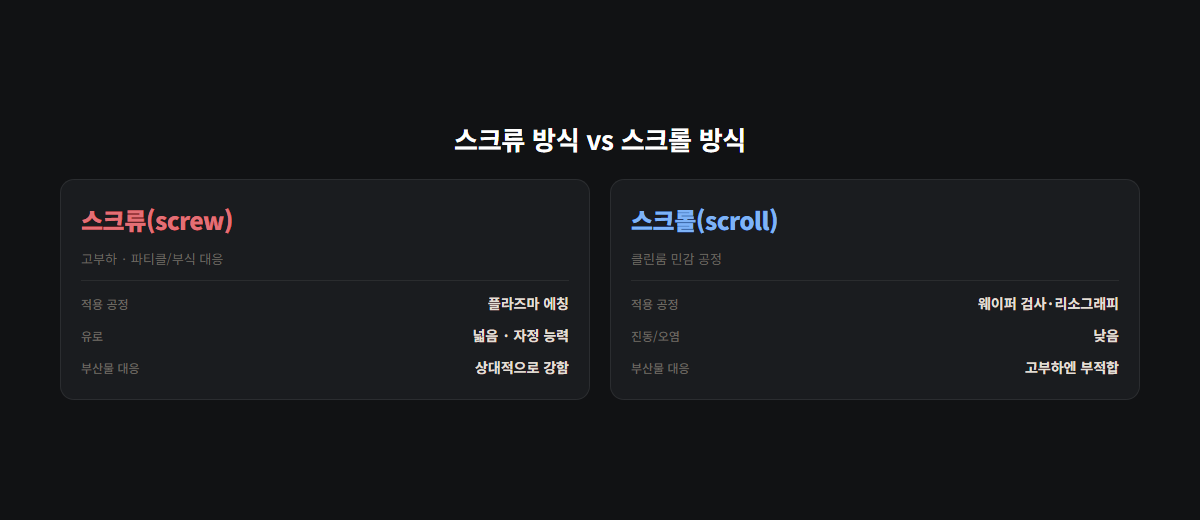
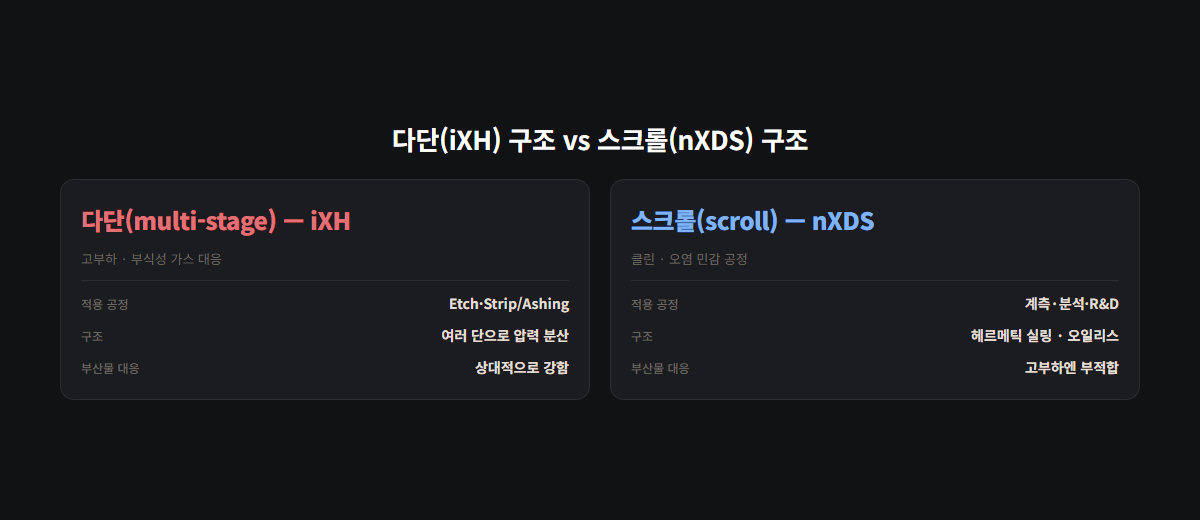
fix: 네이버 복사 시 썸네일이 사진 번호에 포함되던 버그 수정 + 반도체 블로그 사실오류 정정
- admin/blog 네이버 복사 버튼이 썸네일을 "사진 1번"으로 세면서 실제 파일명(사진1.png~)과
  한 칸씩 어긋나던 문제 수정. 썸네일은 "🖼 썸네일"로 별도 표시.
- 반도체 드라이펌프 블로그: "스크류 vs 스크롤" 비교를 "다단(iXH) vs 스크롤(nXDS)"로 정정
  (Edwards 공식 데이터시트 확인). 오일펌프 사진이 다단 구조 설명과 안 맞아 실제 iXH
  현장사진으로 교체.

diff --git a/app/admin/blog/page.tsx b/app/admin/blog/page.tsx
@@ -211,6 +211,9 @@ export default function AdminBlogPage() {
       .replace(/^---[\s\S]*?---\s*/m, "")
       // HTML 주석 제거
       .replace(/<!--[\s\S]*?-->/g, "")
+      // 첫 번째 이미지(썸네일)는 "사진" 번호에서 제외 — 본문 이미지(사진1.png, 사진2.png...)와 번호를 맞추기 위함
+      .replace(/\[IMAGE:\s*([^\]]*)\]/, (_, desc) => `\n\n[🖼 썸네일 — ${desc.trim() || "대표 이미지"}]\n\n`)
+      .replace(/!\[([^\]]*)\]\([^)]*\)/, (_, alt) => `\n\n[🖼 썸네일 — ${alt && alt.trim() ? alt.trim() : "대표 이미지"}]\n\n`)
       // [IMAGE: 설명] 마커 → 📷 사진 안내
       .replace(/\[IMAGE:\s*([^\]]*)\]/g, (_, desc) => {
         imgCount++;

diff --git a/블로그/output/기술블로그/2026-07/0710-반도체-드라이펌프/images/gen_images.py b/블로그/output/기술블로그/2026-07/0710-반도체-드라이펌프/images/gen_images.py
@@ -119,7 +119,7 @@ img2_html = f"""<!DOCTYPE html>
   </div>
 </body></html>"""
 
-# ── 사진3: 스크류 펌프와 스크롤 펌프 구조 비교 ─────────────
+# ── 사진3: 다단(iXH) 구조와 스크롤(nXDS) 구조 비교 (2026-07-13 정정: 스크류→다단) ─────────────
 img3_html = f"""<!DOCTYPE html>
 <html><head><meta charset="utf-8"><style>
   * {{ margin:0; padding:0; box-sizing:border-box; }}
@@ -142,22 +142,22 @@ img3_html = f"""<!DOCTYPE html>
   .spec-value {{ font-size:14px; font-weight:700; color:#E3DFD6; }}
 </style></head>
 <body>
-  <h2>스크류 방식 vs 스크롤 방식</h2>
+  <h2>다단(iXH) 구조 vs 스크롤(nXDS) 구조</h2>
   <div class="cards">
     <div class="card">
-      <div class="model-name" style="color:#E46F75;">스크류(screw)</div>
-      <div class="model-sub">고부하 · 파티클/부식 대응</div>
+      <div class="model-name" style="color:#E46F75;">다단(multi-stage) — iXH</div>
+      <div class="model-sub">고부하 · 부식성 가스 대응</div>
       <div class="divider"></div>
-      <div class="spec-row"><span class="spec-label">적용 공정</span><span class="spec-value">플라즈마 에칭</span></div>
-      <div class="spec-row"><span class="spec-label">유로</span><span class="spec-value">넓음 · 자정 능력</span></div>
+      <div class="spec-row"><span class="spec-label">적용 공정</span><span class="spec-value">Etch·Strip/Ashing</span></div>
+      <div class="spec-row"><span class="spec-label">구조</span><span class="spec-value">여러 단으로 압력 분산</span></div>
       <div class="spec-row"><span class="spec-label">부산물 대응</span><span class="spec-value">상대적으로 강함</span></div>
     </div>
     <div class="card">
-      <div class="model-name" style="color:#7EB3F7;">스크롤(scroll)</div>
-      <div class="model-sub">클린룸 민감 공정</div>
+      <div class="model-name" style="color:#7EB3F7;">스크롤(scroll) — nXDS</div>
+      <div class="model-sub">클린 · 오염 민감 공정</div>
       <div class="divider"></div>
-      <div class="spec-row"><span class="spec-label">적용 공정</span><span class="spec-value">웨이퍼 검사·리소그래피</span></div>
-      <div class="spec-row"><span class="spec-label">진동/오염</span><span class="spec-value">낮음</span></div>
+      <div class="spec-row"><span class="spec-label">적용 공정</span><span class="spec-value">계측·분석·R&D</span></div>
+      <div class="spec-row"><span class="spec-label">구조</span><span class="spec-value">헤르메틱 실링 · 오일리스</span></div>
       <div class="spec-row"><span class="spec-label">부산물 대응</span><span class="spec-value">고부하엔 부적합</span></div>
     </div>
   </div>

diff --git a/블로그/output/기술블로그/2026-07/0710-반도체-드라이펌프/naver.md b/블로그/output/기술블로그/2026-07/0710-반도체-드라이펌프/naver.md
@@ -1,4 +1,4 @@
-<!-- 수치검증: A항목 3개 확인(Cl₂/BCl₃/HBr 부식가스, 10⁻³~10⁻⁶Torr 범위, 스크류vs스크롤 비교) / B항목 해당없음 / 삭제 0개 / 교체 0개 -->
+<!-- 수치검증: A항목 3개 확인(Cl₂/BCl₃/HBr 부식가스, 10⁻³~10⁻⁶Torr 범위, 다단(iXH)vs스크롤(nXDS) 비교 — 2026-07-13 정정) / B항목 해당없음 / 삭제 0개 / 교체 0개 -->
 
 # 반도체 에칭 라인, 왜 자꾸 펌프가 일찍 죽을까
 
@@ -6,22 +6,32 @@
 
 [IMAGE:반도체 에칭 공정 드라이펌프 시스템 개념도]
 
+## 다단 구조, 왜 필요한가요?
+
+반도체 공정용 드라이펌프는 여러 단(stage)을 거쳐 고진공을 형성하는 구조가 많습니다. 통상 10⁻³~10⁻⁶ Torr 범위를 커버하는데, 이 정도 진공도를 단일 단으로 만들려면 비효율적이거나 아예 불가능합니다. 다단 구조를 쓰면 각 단이 압력 구간을 나눠 맡아 부식성 가스에 노출되는 시간과 부위도 분산되는 효과가 있습니다.
+
+[IMAGE:다단 드라이펌프 압력 구간별 구조]
+
 ## 에칭 라인 배기가스, 뭐가 다를까요?
 
 에칭 공정은 Cl₂, BCl₃, HBr 같은 부식성·반응성 가스를 씁니다. 이 가스들이 펌프 내부 유로를 그대로 통과하면서 금속 표면과 반응합니다. 초반엔 문제가 안 보이다가, 반응 부산물이 배기 라인 안쪽 저온 구간에서 냉각되며 고형물로 쌓이기 시작하면 그때부터 유량이 서서히 떨어집니다. 일반 공정용 드라이펌프를 그대로 가져다 쓰면 이 부식·퇴적을 못 버티고 수명이 확 줄어드는 이유가 여기 있습니다.
 
 [IMAGE:부식성 가스 배기 라인 내부 퇴적물 비교]
 
-## 스크류 방식과 스크롤 방식, 뭘 골라야 하나요?
+## 다단(iXH)과 스크롤(nXDS), 뭘 골라야 하나요?
 
-현장에서 자주 헷갈리는 지점이 펌프 방식입니다.
+현장에서 자주 헷갈리는 지점이 펌프 구조입니다.
 
-- **스크류(screw) 방식**: 파티클과 부식성 가스가 많은 플라즈마 에칭 같은 고부하 공정에 강합니다. 유로가 넓고 자정 능력이 있어 부산물이 섞인 배기에 상대적으로 유리합니다.
-- **스크롤(scroll) 방식**: 웨이퍼 검사, 리소그래피처럼 클린룸 민감도가 높은 공정에 적합합니다. 진동·오염이 적어야 하는 계측 라인에 주로 들어갑니다.
+- **다단(multi-stage) 구조 — iXH 계열**: 파티클과 부식성 가스가 많은 에칭·Strip/Ashing 같은 고부하 공정에 권장됩니다. 여러 단이 압력 구간을 나눠 맡아 부산물 섞인 배기에 상대적으로 강합니다.
+- **스크롤(scroll) 방식 — nXDS 계열**: 웨이퍼 검사, 계측·분석 장비처럼 클린 민감도가 높은 공정에 적합합니다. 헤르메틱 실링 구조로 오일 없이 깨끗한 진공을 만들지만, 부식성·고부하 조건에는 권장되지 않습니다.
 
-즉 "에칭이냐 검사·계측이냐"에 따라 먼저 방식을 나누고, 그 다음에 용량을 맞추는 순서가 맞습니다. 지금 쓰시는 라인이 에칭인데 스크롤 펌프를 쓰고 계시다면, 부하 조건부터 다시 확인해보시길 권합니다.
+즉 "에칭이냐 검사·계측이냐"에 따라 먼저 구조를 나누고, 그 다음에 용량을 맞추는 순서가 맞습니다. 참고로 "스크류(screw) 방식"은 GXS·EXS 같은 산업 범용 드라이펌프에 쓰이는 구조로, 반도체 에칭 라인에 표준으로 쓰이는 구조는 아닙니다. 지금 쓰시는 라인이 에칭인데 스크롤 펌프를 쓰고 계시다면, 부하 조건부터 다시 확인해보시길 권합니다. 최근에도 정밀 계측 장비 업체로부터 nXDS 계열 스크롤펌프(스크롤+터보 조합) 납품 문의가 있었는데, 진동·오염에 민감한 정밀 측정 라인에 맞춘 선택으로 에칭 라인과는 정반대 조건입니다.
 
-[IMAGE:스크류 펌프와 스크롤 펌프 구조 비교]
+[IMAGE:다단(iXH) 구조와 스크롤(nXDS) 구조 비교]
+
+아래는 반도체 라인에 실제 설치된 iXH 다단 드라이펌프 현장 사진입니다. 챔버 하단에 결합된 벨로우즈 플랜지 구조와 개별 컨트롤러 구성을 확인하실 수 있습니다.
+
+[IMAGE:반도체 라인에 설치된 iXH 다단 드라이펌프]
 
 ## 부산물 응축, 미리 막을 수 있나요?
 
@@ -34,12 +44,6 @@
 셋 다 이미 알고 계신 방법일 수 있지만, 실제로 셋 중 하나라도 빠져 있으면 나머지 둘만으로는 퇴적을 못 막는 경우를 여러 번 봤습니다.
 
 [IMAGE:가스발라스트 운전 원리 다이어그램]
-
-## 다단 구조는 왜 필요한가요?
-
-반도체 공정용 드라이펌프는 여러 단(stage)을 거쳐 고진공을 형성하는 구조가 많습니다. 통상 10⁻³~10⁻⁶ Torr 범위를 커버하는데, 이 정도 진공도를 단일 단으로 만들려면 비효율적이거나 아예 불가능합니다. 다단 구조를 쓰면 각 단이 압력 구간을 나눠 맡아 부식성 가스에 노출되는 시간과 부위도 분산되는 효과가 있습니다.
-
-[IMAGE:다단 드라이펌프 압력 구간별 구조]
 
 ## 교체 주기는 어떻게 잡아야 할까요?
 
@@ -60,16 +64,14 @@
 | 항목 | 확인 사항 |
 |---|---|
 | 가스 종류 | Cl₂, BCl₃, HBr 등 부식성 가스 포함 여부 |
-| 방식 | 에칭(고부하)=스크류 / 검사·계측(클린룸)=스크롤 |
+| 구조 | 에칭(고부하)=다단(iXH) / 검사·계측(클린룸)=스크롤(nXDS) |
 | 부식 대응 | 내식 코팅·재질 적용 여부 |
 | 운전 옵션 | 가스발라스트, 배기 라인 히팅 지원 여부 |
 | 진공 범위 | 10⁻³~10⁻⁶ Torr 커버하는 다단 구조 여부 |
 
 스마텍은 반도체 공정용으로 iXH·iXL 드라이펌프, 산업 범용으로 GXS·EXS 계열을 취급합니다. 부스터가 필요한 고배기량 라인은 EH 시리즈 루츠부스터를 조합해 구성합니다.
 
-지금 쓰시는 라인의 배기 가스 조성과 현재 펌프 교체 주기를 알려주시면, 방식 전환이 필요한지 운전 조건만 손봐도 되는지 판단해 드립니다.
-
-[IMAGE:반도체 코팅(스퍼터) 라인 진공펌프 현장 설치 사진]
+지금 쓰시는 라인의 배기 가스 조성과 현재 펌프 교체 주기를 알려주시면, 구조 전환이 필요한지 운전 조건만 손봐도 되는지 판단해 드립니다.
 
 ## 도입 전 점검 체크리스트
 
@@ -81,7 +83,7 @@
 - 가스발라스트·배기 라인 히팅 옵션 지원 여부 확인
 - 배기 압력·모터 전류·라인 온도 세 지표를 월 단위로 기록하는 루틴이 있는지 점검
 
-이 다섯 가지를 미리 정리해두면, 라인 신설 시점에도 어떤 방식·옵션을 먼저 요청해야 할지 빠르게 판단할 수 있습니다.
+이 다섯 가지를 미리 정리해두면, 라인 신설 시점에도 어떤 구조·옵션을 먼저 요청해야 할지 빠르게 판단할 수 있습니다.
 
 ---
 
@@ -89,4 +91,4 @@ Tel : 031 204 7170
 info@smartechvacuum.com
 www.smartechvacuum.com
 
-#반도체드라이펌프 #에칭공정진공펌프 #CMP진공펌프 #스크류펌프 #스크롤펌프 #가스발라스트 #iXH #iXL #스마텍 #Edwards진공펌프
+#반도체드라이펌프 #에칭공정진공펌프 #CMP진공펌프 #다단드라이펌프 #스크롤펌프 #가스발라스트 #iXH #iXL #스마텍 #Edwards진공펌프

diff --git a/블로그/output/기술블로그/2026-07/0710-반도체-드라이펌프/google.md b/블로그/output/기술블로그/2026-07/0710-반도체-드라이펌프/google.md
@@ -1,8 +1,8 @@
-<!-- 수치검증: A항목 3개 확인(Cl₂/BCl₃/HBr 부식가스, 10⁻³~10⁻⁶Torr 범위, 스크류vs스크롤 비교) / B항목 해당없음 / 삭제 0개 / 교체 0개 -->
+<!-- 수치검증: A항목 3개 확인(Cl₂/BCl₃/HBr 부식가스, 10⁻³~10⁻⁶Torr 범위, 다단(iXH)vs스크롤(nXDS) 비교 — 2026-07-13 정정) / B항목 해당없음 / 삭제 0개 / 교체 0개 -->
 
-# 반도체 에칭·CMP 공정 드라이펌프 선택 기준 — 부식성 가스부터 방식 선정까지
+# 반도체 에칭·CMP 공정 드라이펌프 선택 기준 — 부식성 가스부터 구조 선정까지
 
-반도체 에칭·CMP 공정용 드라이펌프를 고를 때 확인해야 할 핵심은 세 가지입니다. 배기 가스의 부식성, 펌프 방식(스크류 vs 스크롤), 그리고 부산물 응축을 관리하는 운전 옵션입니다. 이 세 가지 중 하나라도 놓치면 스펙상 정상인 펌프도 현장에서는 수명이 절반으로 줄어듭니다.
+반도체 에칭·CMP 공정용 드라이펌프를 고를 때 확인해야 할 핵심은 세 가지입니다. 배기 가스의 부식성, 펌프 구조(다단 vs 스크롤), 그리고 부산물 응축을 관리하는 운전 옵션입니다. 이 세 가지 중 하나라도 놓치면 스펙상 정상인 펌프도 현장에서는 수명이 절반으로 줄어듭니다.
 
 [IMAGE:반도체 에칭 공정 드라이펌프 시스템 개념도]
 
@@ -18,14 +18,18 @@
 
 [IMAGE:부식성 가스 배기 라인 내부 퇴적물 비교]
 
-## 스크류 vs 스크롤, 공정 부하로 판단
+## 다단(iXH) vs 스크롤(nXDS), 공정 부하로 판단
 
-- **스크류(screw) 방식**: 파티클과 부식성 가스가 많은 플라즈마 에칭 등 고부하 공정에 유리합니다. 유로가 넓고 자정 능력이 있어 부산물 섞인 배기에 상대적으로 강합니다.
-- **스크롤(scroll) 방식**: 웨이퍼 검사, 리소그래피처럼 클린룸 민감도가 높은 공정에 적합합니다. 진동·오염이 적어야 하는 계측 라인에 주로 채택됩니다.
+- **다단(multi-stage) 구조 — iXH 계열**: 에칭·CMP처럼 부식성 가스와 파티클 부하가 큰 공정(Etch, Strip/Ashing 등)에 권장되는 구조입니다. 여러 단이 압력 구간을 나눠 맡아 부식성 가스 노출을 분산시키고, 고부하에서도 유량을 견딥니다.
+- **스크롤(scroll) 방식 — nXDS 계열**: 웨이퍼 검사, 계측 장비처럼 오염에 민감한 클린 공정에 적합합니다. 헤르메틱 실링 구조로 오일 없이 깨끗한 진공을 만들지만, 부식성·고부하 가스 조건에는 권장되지 않습니다.
 
-에칭 라인인지 검사·계측 라인인지에 따라 방식을 먼저 정하고, 그다음 용량을 맞추는 순서가 실무적으로 맞습니다. 두 방식을 섞어 쓰는 라인도 있는데, 이 경우 공정 구간별로 부하가 큰 쪽에는 스크류, 클린 요구가 높은 쪽에는 스크롤을 배치하는 식으로 구간을 나눠 설계하는 편이 유지보수 측면에서 유리합니다.
+에칭 라인인지 검사·계측 라인인지에 따라 구조를 먼저 정하고, 그다음 용량을 맞추는 순서가 실무적으로 맞습니다. 참고로 "스크류(screw) 방식"은 GXS·EXS 같은 산업 범용 드라이펌프에 쓰이는 별도 구조로, 반도체 에칭 라인에 표준으로 쓰이는 구조는 아닙니다. 최근에도 정밀 계측 장비 업체로부터 nXDS 계열 스크롤펌프(스크롤+터보 조합) 납품 문의가 있었는데, 진동·오염에 민감한 정밀 측정 라인에 맞춘 선택으로 에칭 라인과는 정반대 조건입니다.
 
-[IMAGE:스크류 펌프와 스크롤 펌프 구조 비교]
+[IMAGE:다단(iXH) 구조와 스크롤(nXDS) 구조 비교]
+
+아래는 반도체 라인에 실제 설치된 iXH 다단 드라이펌프 현장 사진입니다. 챔버 하단에 결합된 벨로우즈 플랜지 구조와 개별 컨트롤러 구성을 볼 수 있습니다.
+
+[IMAGE:반도체 라인에 설치된 iXH 다단 드라이펌프]
 
 ## 부산물 응축을 늦추는 세 가지 운전 방식
 
@@ -49,23 +53,17 @@
 
 세 지표를 월 단위로 기록해두면 다음 점검 시점에 교체 여부를 데이터로 판단할 수 있습니다. 특히 배기 압력과 모터 전류를 함께 기록해두면, 압력만으로는 애매한 초기 단계에서도 전류 추이로 퇴적 진행 여부를 교차 확인할 수 있어 판단 정확도가 올라갑니다.
 
-## 최근 사례로 보는 스크롤 펌프 수요
-
-최근 정밀 계측 장비를 다루는 업체로부터 nXDS 계열 스크롤펌프 납품 문의가 있었습니다. 스크롤+터보 조합 구성으로, 진동·오염에 민감한 정밀 측정 라인에 맞춘 선택이었습니다. 에칭처럼 부식성 가스 부하가 큰 라인과는 정반대 조건이라, 같은 반도체 공정이라도 방식을 다르게 골라야 하는 대표적인 예입니다.
-
-[IMAGE:반도체 코팅(스퍼터) 라인 진공펌프 현장 설치 사진]
-
 ## 선택 기준 요약
 
 | 항목 | 확인 사항 |
 |---|---|
 | 가스 종류 | Cl₂, BCl₃, HBr 등 부식성 가스 포함 여부 |
-| 방식 | 에칭(고부하)=스크류 / 검사·계측(클린룸)=스크롤 |
+| 구조 | 에칭(고부하)=다단(iXH) / 검사·계측(클린룸)=스크롤(nXDS) |
 | 부식 대응 | 내식 코팅·재질 적용 여부 |
 | 운전 옵션 | 가스발라스트, 배기 라인 히팅 지원 여부 |
 | 진공 범위 | 10⁻³~10⁻⁶ Torr 커버하는 다단 구조 여부 |
 
-배기 가스 조성, 공정 부하, 현재 펌프 교체 주기 세 가지를 함께 확인하면 방식 전환이 필요한 상황인지 운전 조건 조정만으로 충분한지 판단할 수 있습니다.
+배기 가스 조성, 공정 부하, 현재 펌프 교체 주기 세 가지를 함께 확인하면 구조 전환이 필요한 상황인지 운전 조건 조정만으로 충분한지 판단할 수 있습니다.
 
 ## 부스터 조합이 필요한 경우
 
@@ -79,4 +77,4 @@
 - 가스발라스트·배기 라인 히팅 옵션 지원 여부 확인
 - 배기 압력·모터 전류·라인 온도를 월 단위로 기록하는 운영 루틴 마련
 
-라인을 신설하거나 펌프 교체를 검토할 때 이 순서로 확인하면 방식·옵션 선택에 걸리는 시간을 줄일 수 있고, 담당자가 바뀌어도 동일한 기준으로 후속 관리가 이어질 수 있습니다.
+라인을 신설하거나 펌프 교체를 검토할 때 이 순서로 확인하면 구조·옵션 선택에 걸리는 시간을 줄일 수 있고, 담당자가 바뀌어도 동일한 기준으로 후속 관리가 이어질 수 있습니다.

diff --git a/블로그/output/기술블로그/2026-07/0710-반도체-드라이펌프/final.md b/블로그/output/기술블로그/2026-07/0710-반도체-드라이펌프/final.md
@@ -2,11 +2,11 @@
 category: 기술문의
 ---
 
-<!-- 수치검증: A항목 3개 확인(Cl₂/BCl₃/HBr 부식가스, 10⁻³~10⁻⁶Torr 범위, 스크류vs스크롤 비교) / B항목 해당없음 / 삭제 0개 / 교체 0개 -->
+<!-- 수치검증: A항목 3개 확인(Cl₂/BCl₃/HBr 부식가스, 10⁻³~10⁻⁶Torr 범위, 다단(iXH)vs스크롤(nXDS) 비교 — 2026-07-13 정정) / B항목 해당없음 / 삭제 0개 / 교체 0개 -->
 
-# 반도체 에칭·CMP 공정 드라이펌프 선택 기준 — 부식성 가스부터 방식 선정까지
+# 반도체 에칭·CMP 공정 드라이펌프 선택 기준 — 부식성 가스부터 구조 선정까지
 
-반도체 에칭·CMP 공정용 드라이펌프를 고를 때 확인해야 할 핵심은 세 가지입니다. 배기 가스의 부식성, 펌프 방식(스크류 vs 스크롤), 그리고 부산물 응축을 관리하는 운전 옵션입니다. 이 세 가지 중 하나라도 놓치면 스펙상 정상인 펌프도 현장에서는 수명이 절반으로 줄어듭니다.
+반도체 에칭·CMP 공정용 드라이펌프를 고를 때 확인해야 할 핵심은 세 가지입니다. 배기 가스의 부식성, 펌프 구조(다단 vs 스크롤), 그리고 부산물 응축을 관리하는 운전 옵션입니다. 이 세 가지 중 하나라도 놓치면 스펙상 정상인 펌프도 현장에서는 수명이 절반으로 줄어듭니다.
 
 ![반도체 에칭 공정 드라이펌프 시스템](./images/thumbnail.png)
 
@@ -22,14 +22,18 @@ category: 기술문의
 
 ![부식성 가스 배기 라인 내부 퇴적물](./images/사진2.png)
 
-## 스크류 vs 스크롤, 공정 부하로 판단
+## 다단(iXH) vs 스크롤(nXDS), 공정 부하로 판단
 
-- **스크류(screw) 방식**: 파티클과 부식성 가스가 많은 플라즈마 에칭 등 고부하 공정에 유리합니다. 유로가 넓고 자정 능력이 있어 부산물 섞인 배기에 상대적으로 강합니다.
-- **스크롤(scroll) 방식**: 웨이퍼 검사, 리소그래피처럼 클린룸 민감도가 높은 공정에 적합합니다. 진동·오염이 적어야 하는 계측 라인에 주로 채택됩니다.
+- **다단(multi-stage) 구조 — iXH 계열**: 에칭·CMP처럼 부식성 가스와 파티클 부하가 큰 공정(Etch, Strip/Ashing 등)에 권장되는 구조입니다. 여러 단이 압력 구간을 나눠 맡아 부식성 가스 노출을 분산시키고, 고부하에서도 유량을 견딥니다.
+- **스크롤(scroll) 방식 — nXDS 계열**: 웨이퍼 검사, 계측 장비처럼 오염에 민감한 클린 공정에 적합합니다. 헤르메틱 실링 구조로 오일 없이 깨끗한 진공을 만들지만, 부식성·고부하 가스 조건에는 권장되지 않습니다.
 
-에칭 라인인지 검사·계측 라인인지에 따라 방식을 먼저 정하고, 그다음 용량을 맞추는 순서가 실무적으로 맞습니다. 두 방식을 섞어 쓰는 라인도 있는데, 이 경우 공정 구간별로 부하가 큰 쪽에는 스크류, 클린 요구가 높은 쪽에는 스크롤을 배치하는 식으로 구간을 나눠 설계하는 편이 유지보수 측면에서 유리합니다.
+에칭 라인인지 검사·계측 라인인지에 따라 구조를 먼저 정하고, 그다음 용량을 맞추는 순서가 실무적으로 맞습니다. 참고로 "스크류(screw) 방식"은 GXS·EXS 같은 산업 범용 드라이펌프에 쓰이는 별도 구조로, 반도체 에칭 라인에 표준으로 쓰이는 구조는 아닙니다. 최근에도 정밀 계측 장비 업체로부터 nXDS 계열 스크롤펌프(스크롤+터보 조합) 납품 문의가 있었는데, 진동·오염에 민감한 정밀 측정 라인에 맞춘 선택으로 에칭 라인과는 정반대 조건입니다.
 
-![스크류 펌프와 스크롤 펌프 구조 비교](./images/사진3.png)
+![다단(iXH) 구조와 스크롤(nXDS) 구조 비교](./images/사진3.png)
+
+아래는 반도체 라인에 실제 설치된 iXH 다단 드라이펌프 현장 사진입니다. 챔버 하단에 결합된 벨로우즈 플랜지 구조와 개별 컨트롤러 구성을 볼 수 있습니다.
+
+![반도체 라인에 설치된 iXH 다단 드라이펌프](./images/사진5.png)
 
 ## 부산물 응축을 늦추는 세 가지 운전 방식
 
@@ -53,18 +57,12 @@ category: 기술문의
 
 세 지표를 월 단위로 기록해두면 다음 점검 시점에 교체 여부를 데이터로 판단할 수 있습니다. 특히 배기 압력과 모터 전류를 함께 기록해두면, 압력만으로는 애매한 초기 단계에서도 전류 추이로 퇴적 진행 여부를 교차 확인할 수 있어 판단 정확도가 올라갑니다.
 
-## 최근 사례로 보는 스크롤 펌프 수요
-
-최근 정밀 계측 장비를 다루는 업체로부터 nXDS 계열 스크롤펌프 납품 문의가 있었습니다. 스크롤+터보 조합 구성으로, 진동·오염에 민감한 정밀 측정 라인에 맞춘 선택이었습니다. 에칭처럼 부식성 가스 부하가 큰 라인과는 정반대 조건이라, 같은 반도체 공정이라도 방식을 다르게 골라야 하는 대표적인 예입니다.
-
-![반도체 코팅(스퍼터) 라인 진공펌프 현장 설치 사진](./images/사진5.png)
-
 ## 선택 기준 요약
 
 | 항목 | 확인 사항 |
 |---|---|
 | 가스 종류 | Cl₂, BCl₃, HBr 등 부식성 가스 포함 여부 |
-| 방식 | 에칭(고부하)=스크류 / 검사·계측(클린룸)=스크롤 |
+| 구조 | 에칭(고부하)=다단(iXH) / 검사·계측(클린룸)=스크롤(nXDS) |
 | 부식 대응 | 내식 코팅·재질 적용 여부 |
 | 운전 옵션 | 가스발라스트, 배기 라인 히팅 지원 여부 |
 | 진공 범위 | 10⁻³~10⁻⁶ Torr 커버하는 다단 구조 여부 |

diff --git a/블로그/output/기술블로그/2026-07/0710-반도체-드라이펌프/research.md b/블로그/output/기술블로그/2026-07/0710-반도체-드라이펌프/research.md
@@ -3,7 +3,9 @@
 ## 핵심 사실
 
 1. **부식성 가스**: 에칭 공정은 Cl₂, BCl₃, HBr 등 부식성·반응성 가스를 사용한다. 펌프 내부 유로가 이 가스에 노출되므로 내식 코팅·내식 재질이 필요하다. (✅ Everest Vacuum, GlobalSpec 진공펌프 기술자료)
-2. **펌프 방식 비교**: 스크류(screw) 방식은 파티클·부식성 가스가 많은 플라즈마 에칭 같은 고부하 공정에 강하고, 스크롤(scroll) 방식은 웨이퍼 검사·리소그래피처럼 클린룸 민감 공정에 적합하다. (✅ 업계 기술자료 종합)
+2. **구조 비교 (정정 2026-07-13)**: 에칭·CMP 같은 부식성·고부하 공정에는 "스크류 방식"이 아니라 **다단(multi-stage) 구조인 iXH 계열**이 맞다. Edwards iXH 데이터시트는 Oxide/Silicon/Metal Etch, Strip/Ashing 등을 "harsh process — iXH recommended"로 명시한다. (✅ [Edwards iXH 공식 데이터시트] data/Product_master_table/8.반도체드라이_iXH.txt)
+   반대로 스크롤(scroll) 방식(nXDS 계열)은 Mass spectrometry, Electron microscopy, R&D 등 "깨끗하고 오염에 민감한" 분석·연구 장비용으로 명시되어 있다. (✅ [Edwards nXDS 공식 데이터시트] data/Product_master_table/4.스크롤펌프_소형nXDS.txt)
+   즉 올바른 비교축은 "다단(iXH) vs 스크롤(nXDS)"이며, "스크류 vs 스크롤"은 오류다. GXS/EXS(스크류 방식)는 반도체 공정용이 아니라 산업 범용 드라이펌프 라인이다.
 3. **다단 구조**: 반도체 공정용 드라이펌프는 여러 단(stage)을 거쳐 고진공을 형성하며, 통상 10⁻³~10⁻⁶ Torr 범위를 커버한다.
 4. **부산물 응축**: 반응 부산물이 배기 라인 내부에서 냉각·응축되며 고형물을 남기는 경우가 많아, 정기적인 퍼지(purge)·가스발라스트 운전과 배기 라인 히팅이 실무에서 중요하다.
 5. **스마텍 취급 제품**: iXH, iXL(반도체 드라이펌프), GXS/EXS(산업용 드라이펌프), EH 시리즈(루츠 부스터)
@@ -15,8 +17,8 @@
 
 ## 현장사진
 
-- `data/현장사진/01_장비외관/nXDS6i turbo pumping system.jpg` — nXDS6i 스크롤펌프+터보펌프 세트, 배경 깔끔해 블러 최소
-- `data/현장사진/03_현장설치/현장사진_스퍼터장비_E2M275+EH2600.jpg` — 스퍼터(반도체 박막 코팅) 라인 현장, 블러 처리 완료 (radius 90, pump_box [1980,2600,3350,4400])
+- `data/현장사진/01_장비외관/nXDS6i turbo pumping system.jpg` — nXDS6i 스크롤펌프+터보펌프 세트, 배경 깔끔해 블러 최소 (미사용)
+- **(2026-07-13 교체)** `C:\Users\rokmc\Desktop\현장사진.jpg` — 사용자 제공, 반도체 라인에 설치된 iXH 다단 드라이펌프 2대(사용자 확인). 블러 처리 완료 (radius 30, pump_box [0,0,3528,2600], 면적 87.7%). 이전에 쓰던 `현장사진_스퍼터장비_E2M275+EH2600.jpg`(오일펌프라 다단 구조 설명과 안 맞음, 사용자 지적으로 교체)는 제외.
 
 ## 키워드
 
